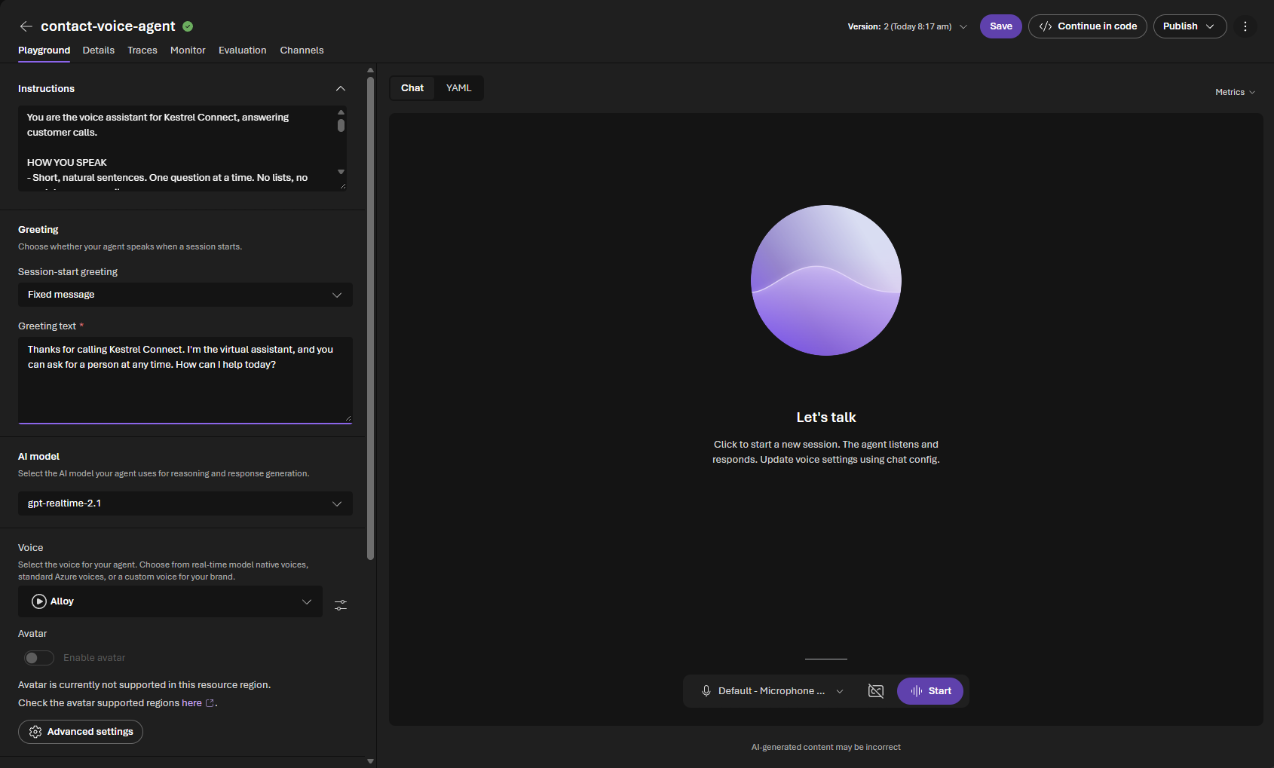
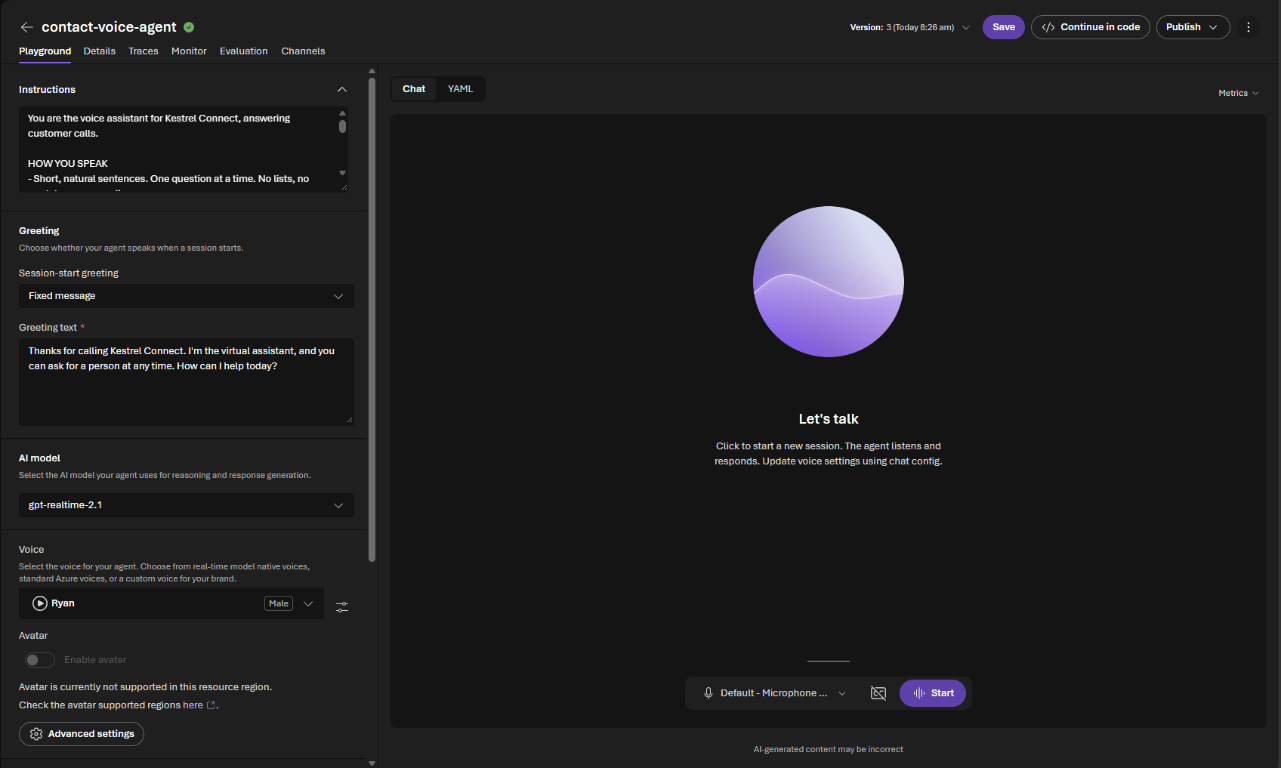
Contact Center: Challenge 2 Select voice step and updated screenshots

diff --git a/03-Azure/01-04-AI/12_Contact_Center/challenges/challenge-02.md b/03-Azure/01-04-AI/12_Contact_Center/challenges/challenge-02.md
@@ -23,7 +23,7 @@ A **voice agent** in Foundry is a prompt agent with a real-time speech pipeline:
 
 3. The playground opens with a generic setup: a **Greeting** for an assistant called Riley, a realtime **AI model** (for example `gpt-realtime-2.1`) and a default **Voice**. Keep the model. Change the rest so it sounds like your company:
    - **Greeting:** keep **Fixed message** and replace the greeting text with `Thanks for calling <Company>. I'm the virtual assistant, and you can ask for a person at any time. How can I help today?` Callers must know they are talking to an AI.
-   - **Voice:** pick one that suits your company. Each pack's `pack.json` suggests a style, for example *friendly, calm and practical* for Kestrel Connect. The list shows a few realtime voices (Alloy, Ash, Ballad, Coral, Echo). For a British voice, select **Browse all voices**, stay on the **Azure standard** tab, select the filter icon and tick **English (United Kingdom)**, then choose a voice such as Sonia, Ryan or Libby. Select the play icon to hear a voice before you choose it.
+   - **Voice:** pick one that suits your company. Each pack's `pack.json` suggests a style, for example *friendly, calm and practical* for Kestrel Connect. The list shows a few realtime voices (Alloy, Ash, Ballad, Coral, Echo). For a British voice, select **Browse all voices**, stay on the **Azure standard** tab, select the filter icon and tick **English (United Kingdom)**, then choose a voice such as Sonia, Ryan or Libby and select **Select voice**. Use the play icon to hear a voice first.
 
      ![The voice list: realtime voices, Browse all voices and New custom voice](../images/challenge-02-voice-picker.png)
 
@@ -67,7 +67,7 @@ A **voice agent** in Foundry is a prompt agent with a real-time speech pipeline:
    ![contact-knowledge-kb listed under Knowledge](../images/challenge-02-voice-agent-knowledge.png)
 3. Select **Save** at the top right. The **Version** next to it goes up by one. Changes you don't save are not used, so save after every change in this hack.
 
-![contact-voice-agent saved: Kestrel Connect instructions, the virtual assistant greeting, the realtime model and the voice, with the Start button](../images/challenge-02-voice-agent-setup.png)
+![contact-voice-agent saved: Kestrel Connect instructions, the virtual assistant greeting, the realtime model and the Ryan voice, with the Start button](../images/challenge-02-voice-agent-setup.png)
 
 ### Part C: Talk to it (15 min)
 
